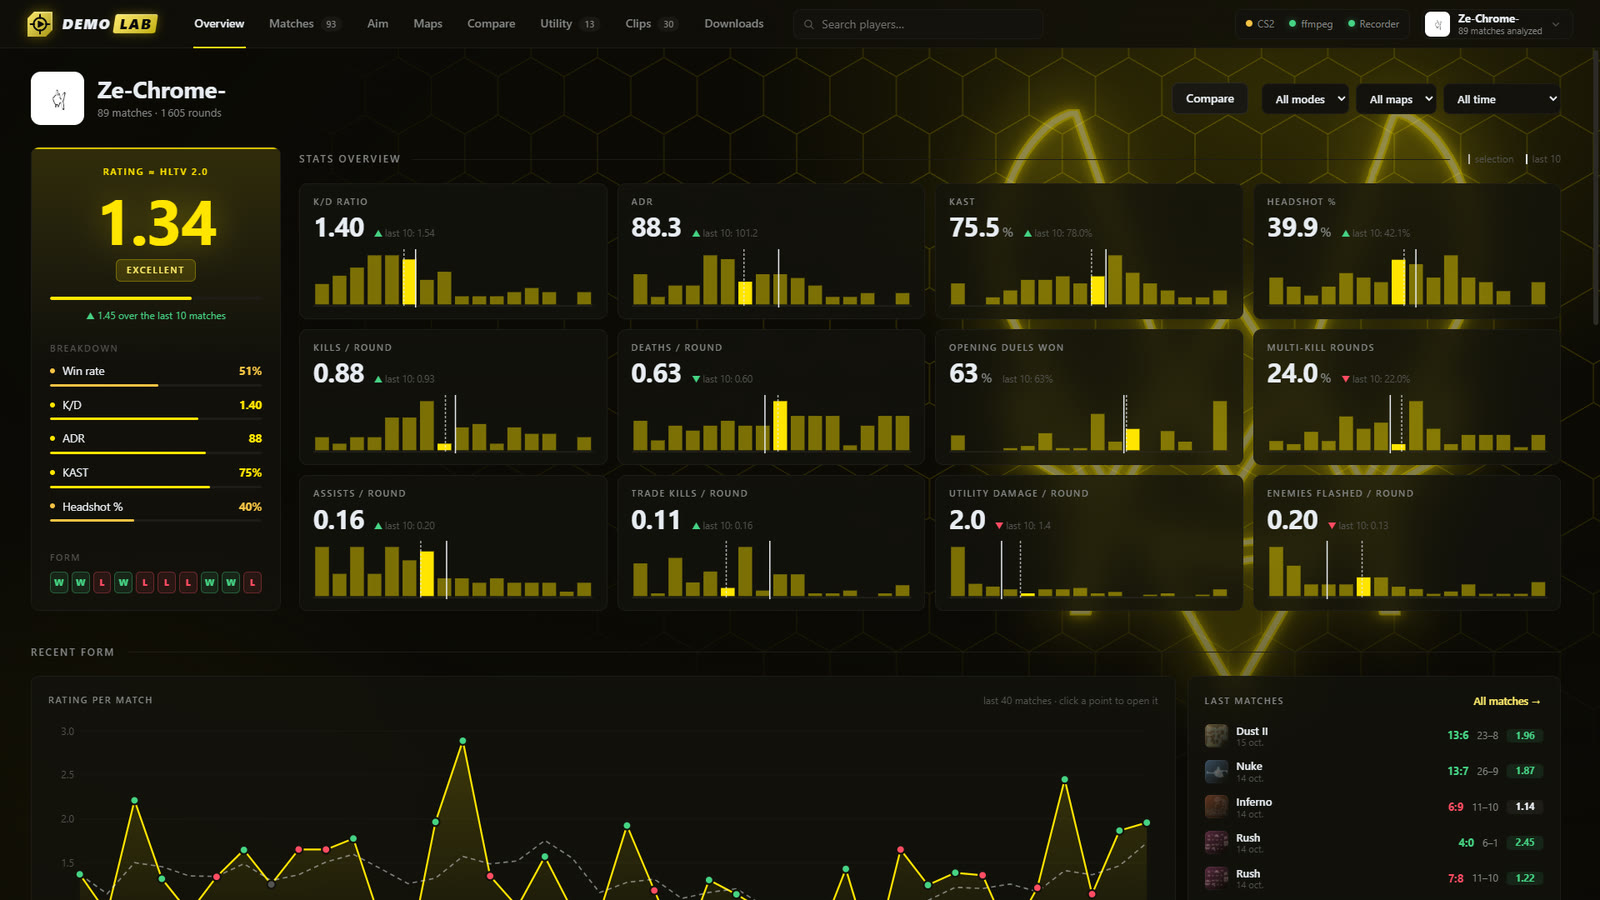
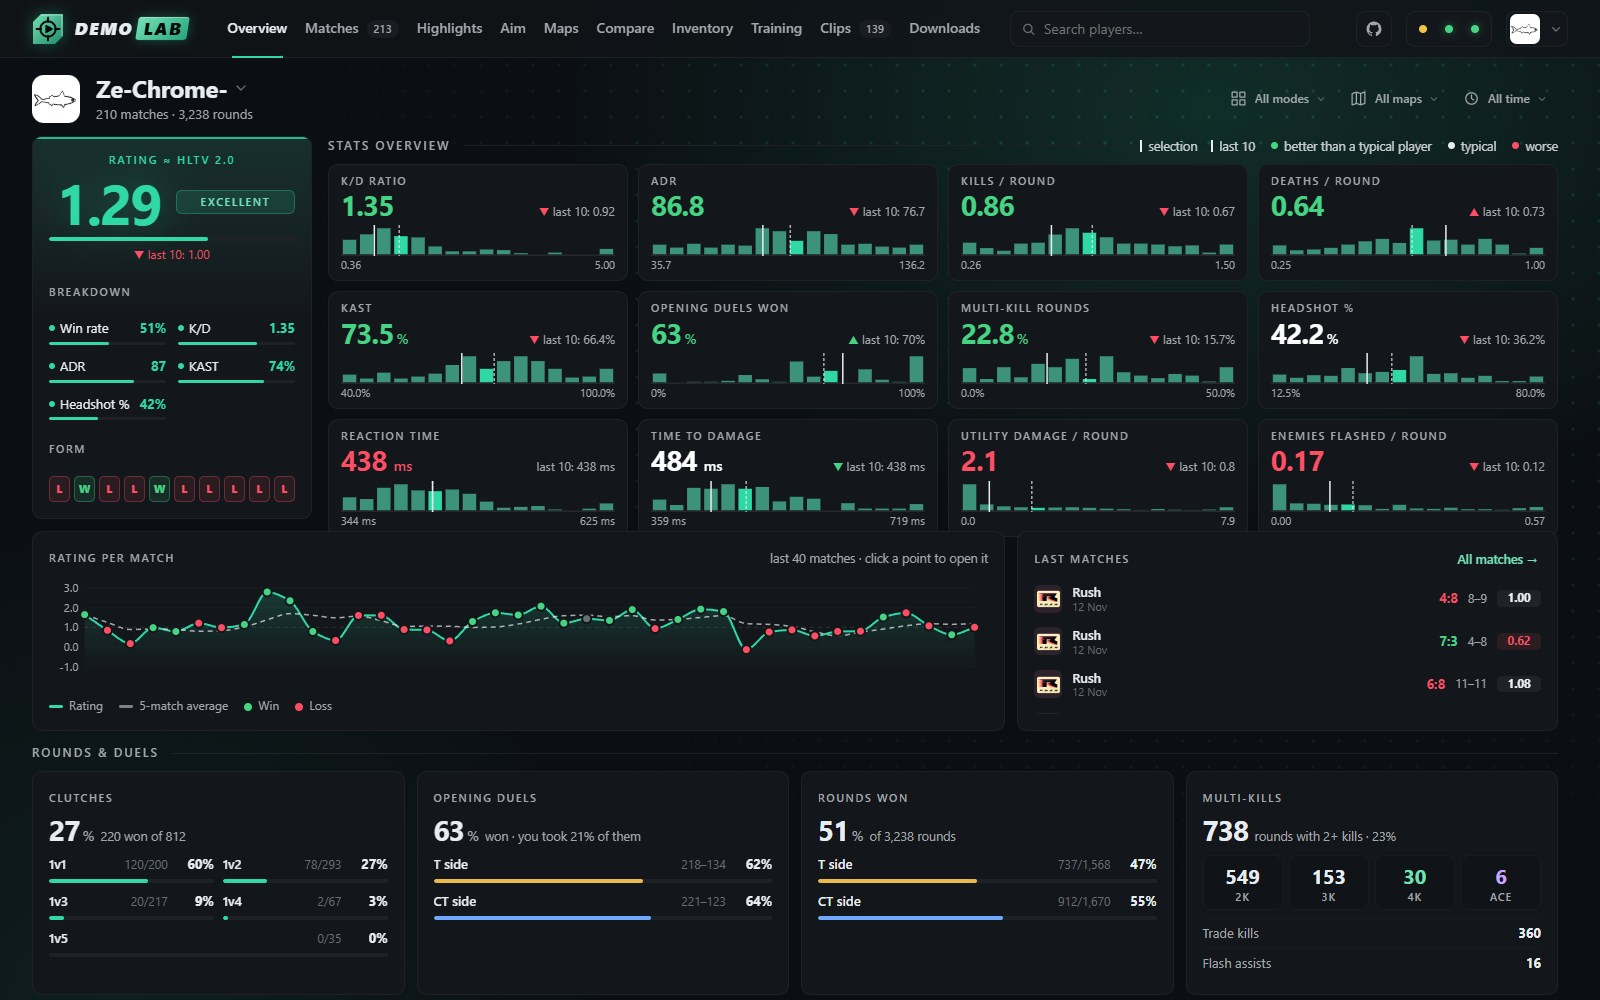
Refresh DemoLab screenshots and showcase Fabric Skills Mod
- Update DemoLab image dimensions, match count, and highlights caption
- Replace the Phasmophobia project entry with Fabric Skills Mod

diff --git a/index.html b/index.html
@@ -240,11 +240,11 @@
       <p class="mark"><b>300 m</b> <i>Grand Reef</i></p>
       <div class="lab">
         <figure class="print p1">
-          <img src="assets/demolab-overview.jpg" alt="DemoLab overview: rating, K/D, ADR and headshot charts for 89 analysed matches" width="1600" height="900" loading="lazy">
+          <img src="assets/demolab-overview.jpg" alt="DemoLab overview: rating, K/D, ADR and headshot charts for 210 analysed matches" width="1600" height="1000" loading="lazy">
           <figcaption><i>Plate II.</i> Every match you played, on one dashboard</figcaption>
         </figure>
         <figure class="print p2">
-          <img src="assets/demolab-replay.jpg" alt="DemoLab 2D replay: player positions on a top-down map with a round timeline" width="1200" height="800" loading="lazy">
+          <img src="assets/demolab-replay.jpg" alt="DemoLab 2D replay: player positions on a top-down map with a round timeline" width="1600" height="1000" loading="lazy">
           <figcaption><i>Plate III.</i> 2D replay, round by round</figcaption>
         </figure>
         <div class="lab-text">
@@ -262,8 +262,8 @@
           </p>
         </div>
         <figure class="print p3">
-          <img src="assets/demolab-clips.jpg" alt="DemoLab highlights list: multi-kill rounds selected and queued for recording as clips" width="1200" height="800" loading="lazy">
-          <figcaption><i>Plate IV.</i> Best rounds, queued up to record</figcaption>
+          <img src="assets/demolab-clips.jpg" alt="DemoLab highlights: multi-kill and clutch rounds with rating filters and controls to add clips to the recording queue" width="1600" height="1000" loading="lazy">
+          <figcaption><i>Plate IV.</i> Best rounds, ready to queue for recording</figcaption>
         </figure>
       </div>
     </div>
@@ -351,11 +351,11 @@
               <p>Every Minecraft update after 1.21.7, playable on 1.21.7. A Fabric mod.</p>
               <span class="made">Java</span>
             </a></li>
-            <li><a href="https://ze-chr0me.github.io/phasmophobia-cheat-sheet/">
+            <li><a href="https://github.com/Ze-Chr0ME/fabric_skills_mod">
               <span class="no">№ 6</span>
-              <h3>Phasmophobia Cheat Sheet</h3>
-              <p>Question-based ghost identification with weighted scoring, for runs with little or no evidence.</p>
-              <span class="made">Web</span>
+              <h3>Fabric Skills Mod</h3>
+              <p>Server-side skills for Minecraft on Fabric, built for Geyser players without requiring Hydraulics.</p>
+              <span class="made">Java</span>
             </a></li>
           </ol>
           <p class="all">Still not at the bottom? <a class="wavy" href="https://github.com/Ze-Chr0ME?tab=repositories">All repositories on GitHub</a></p>
